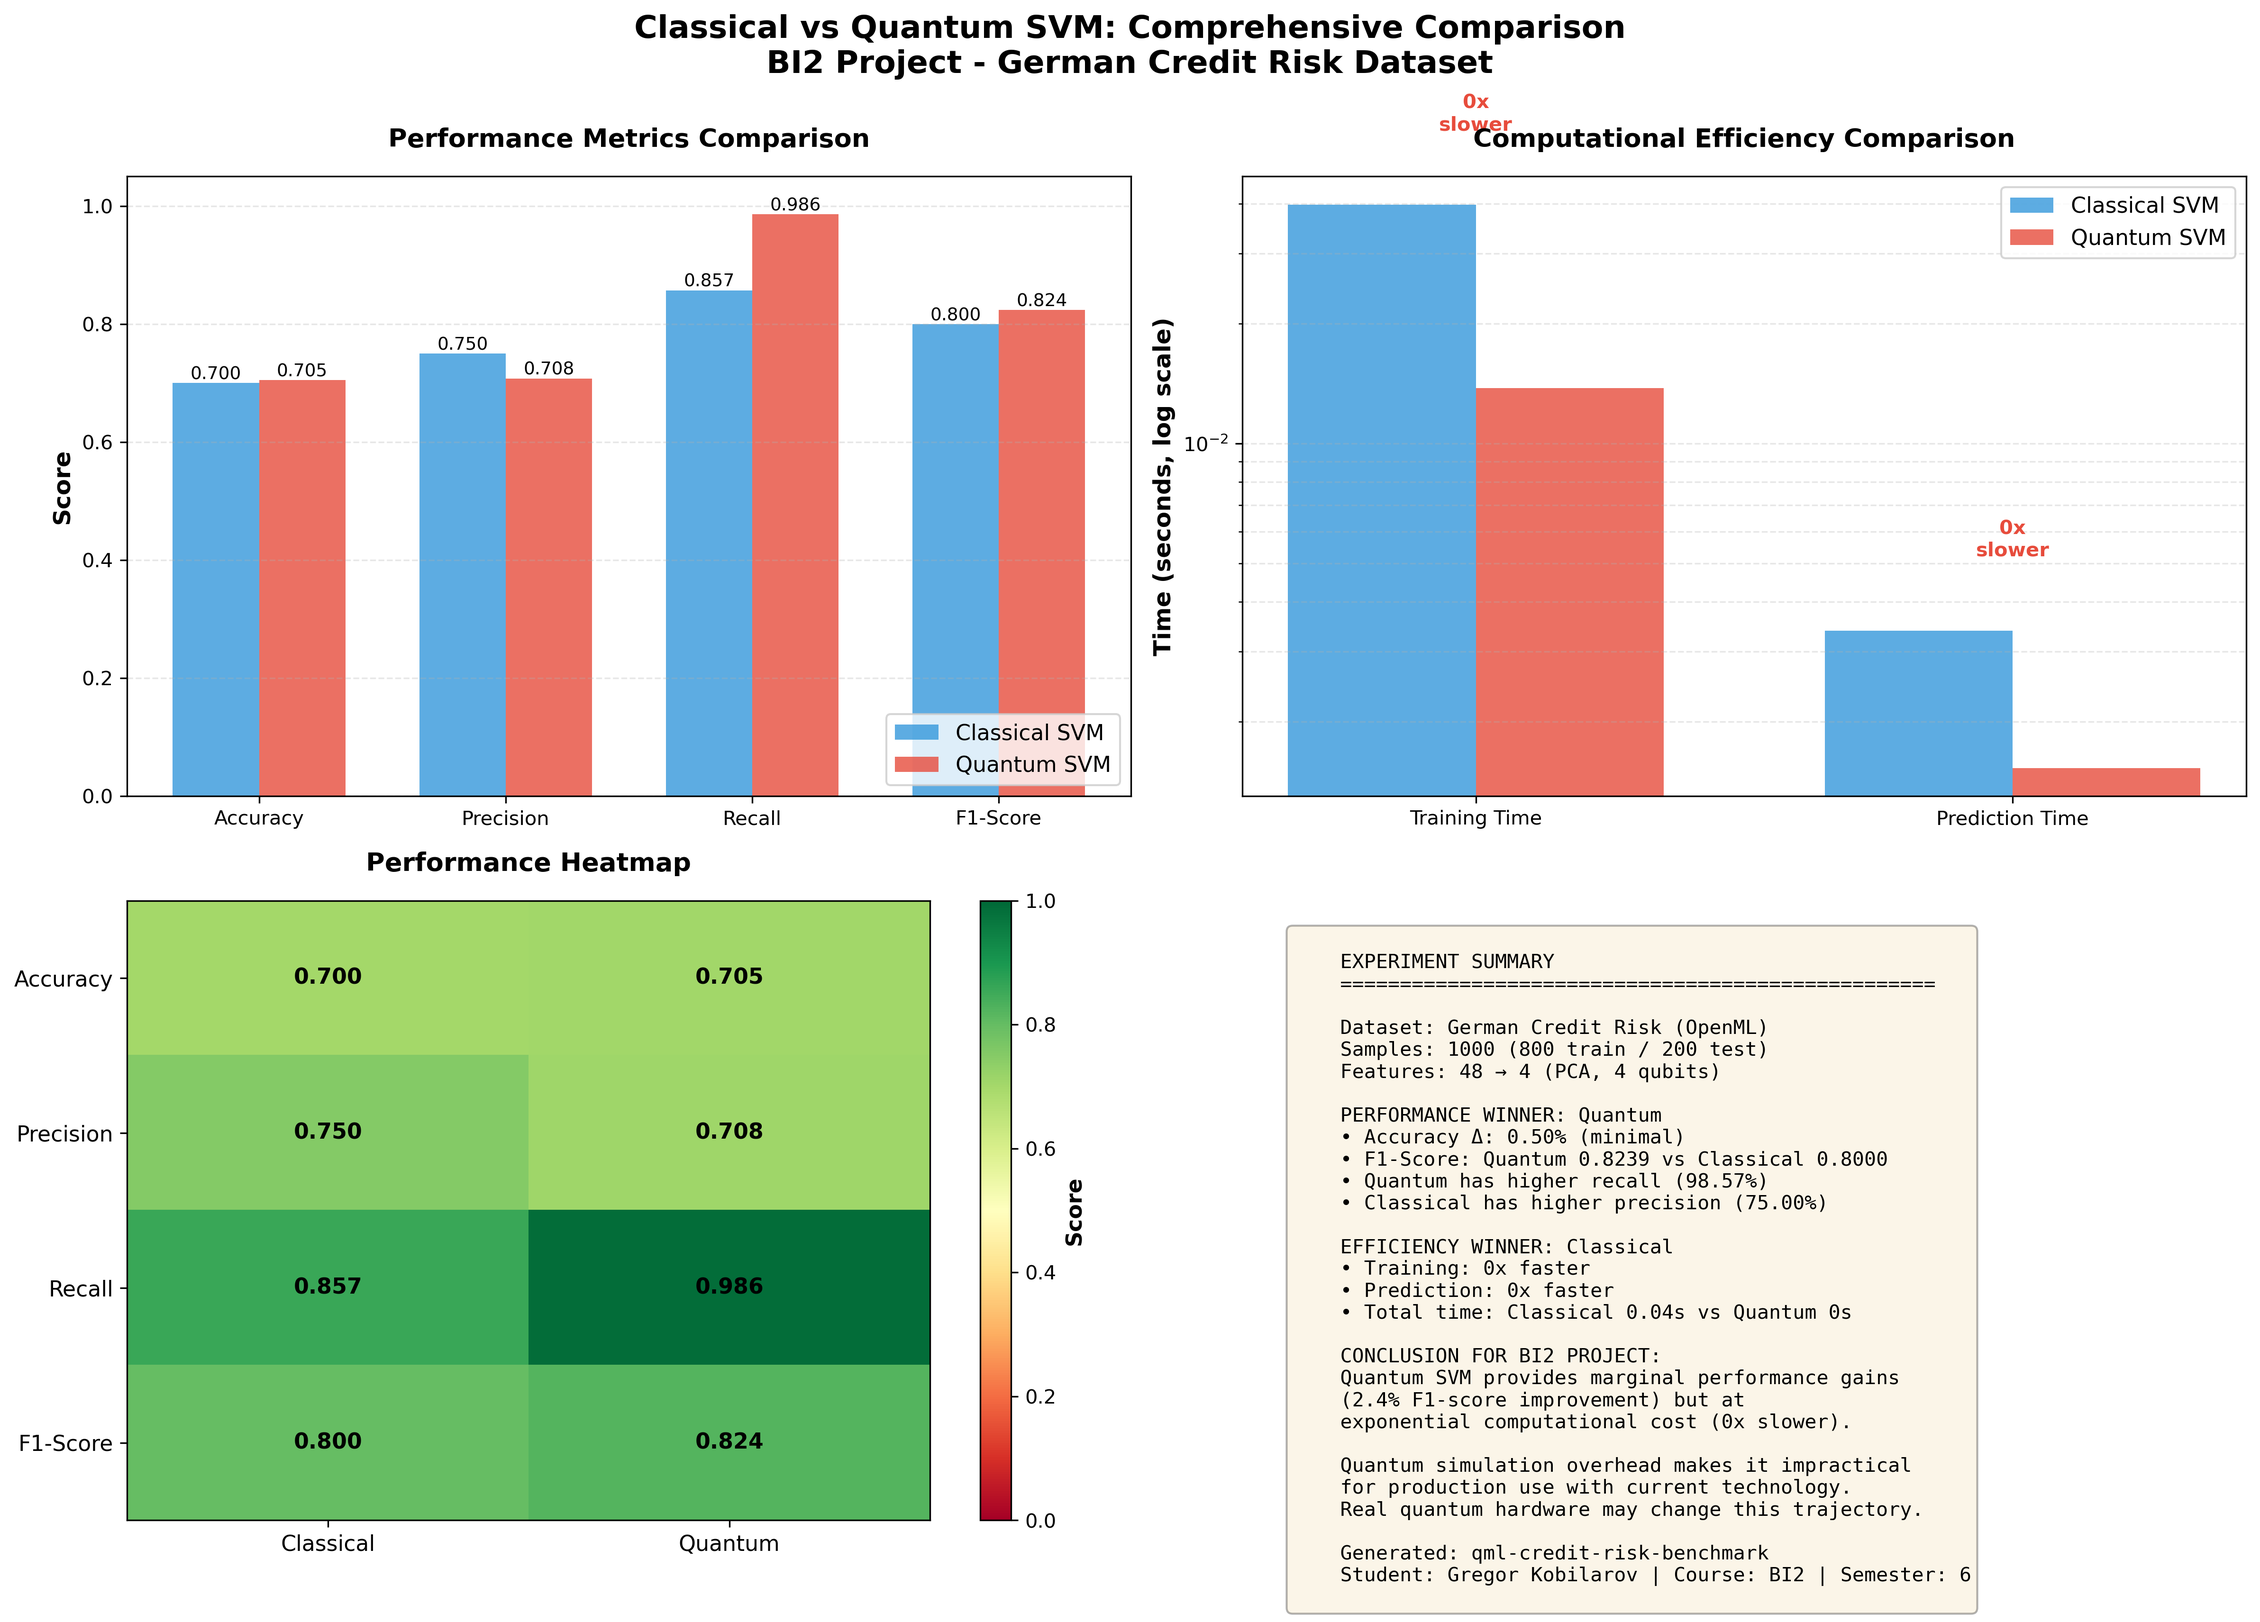
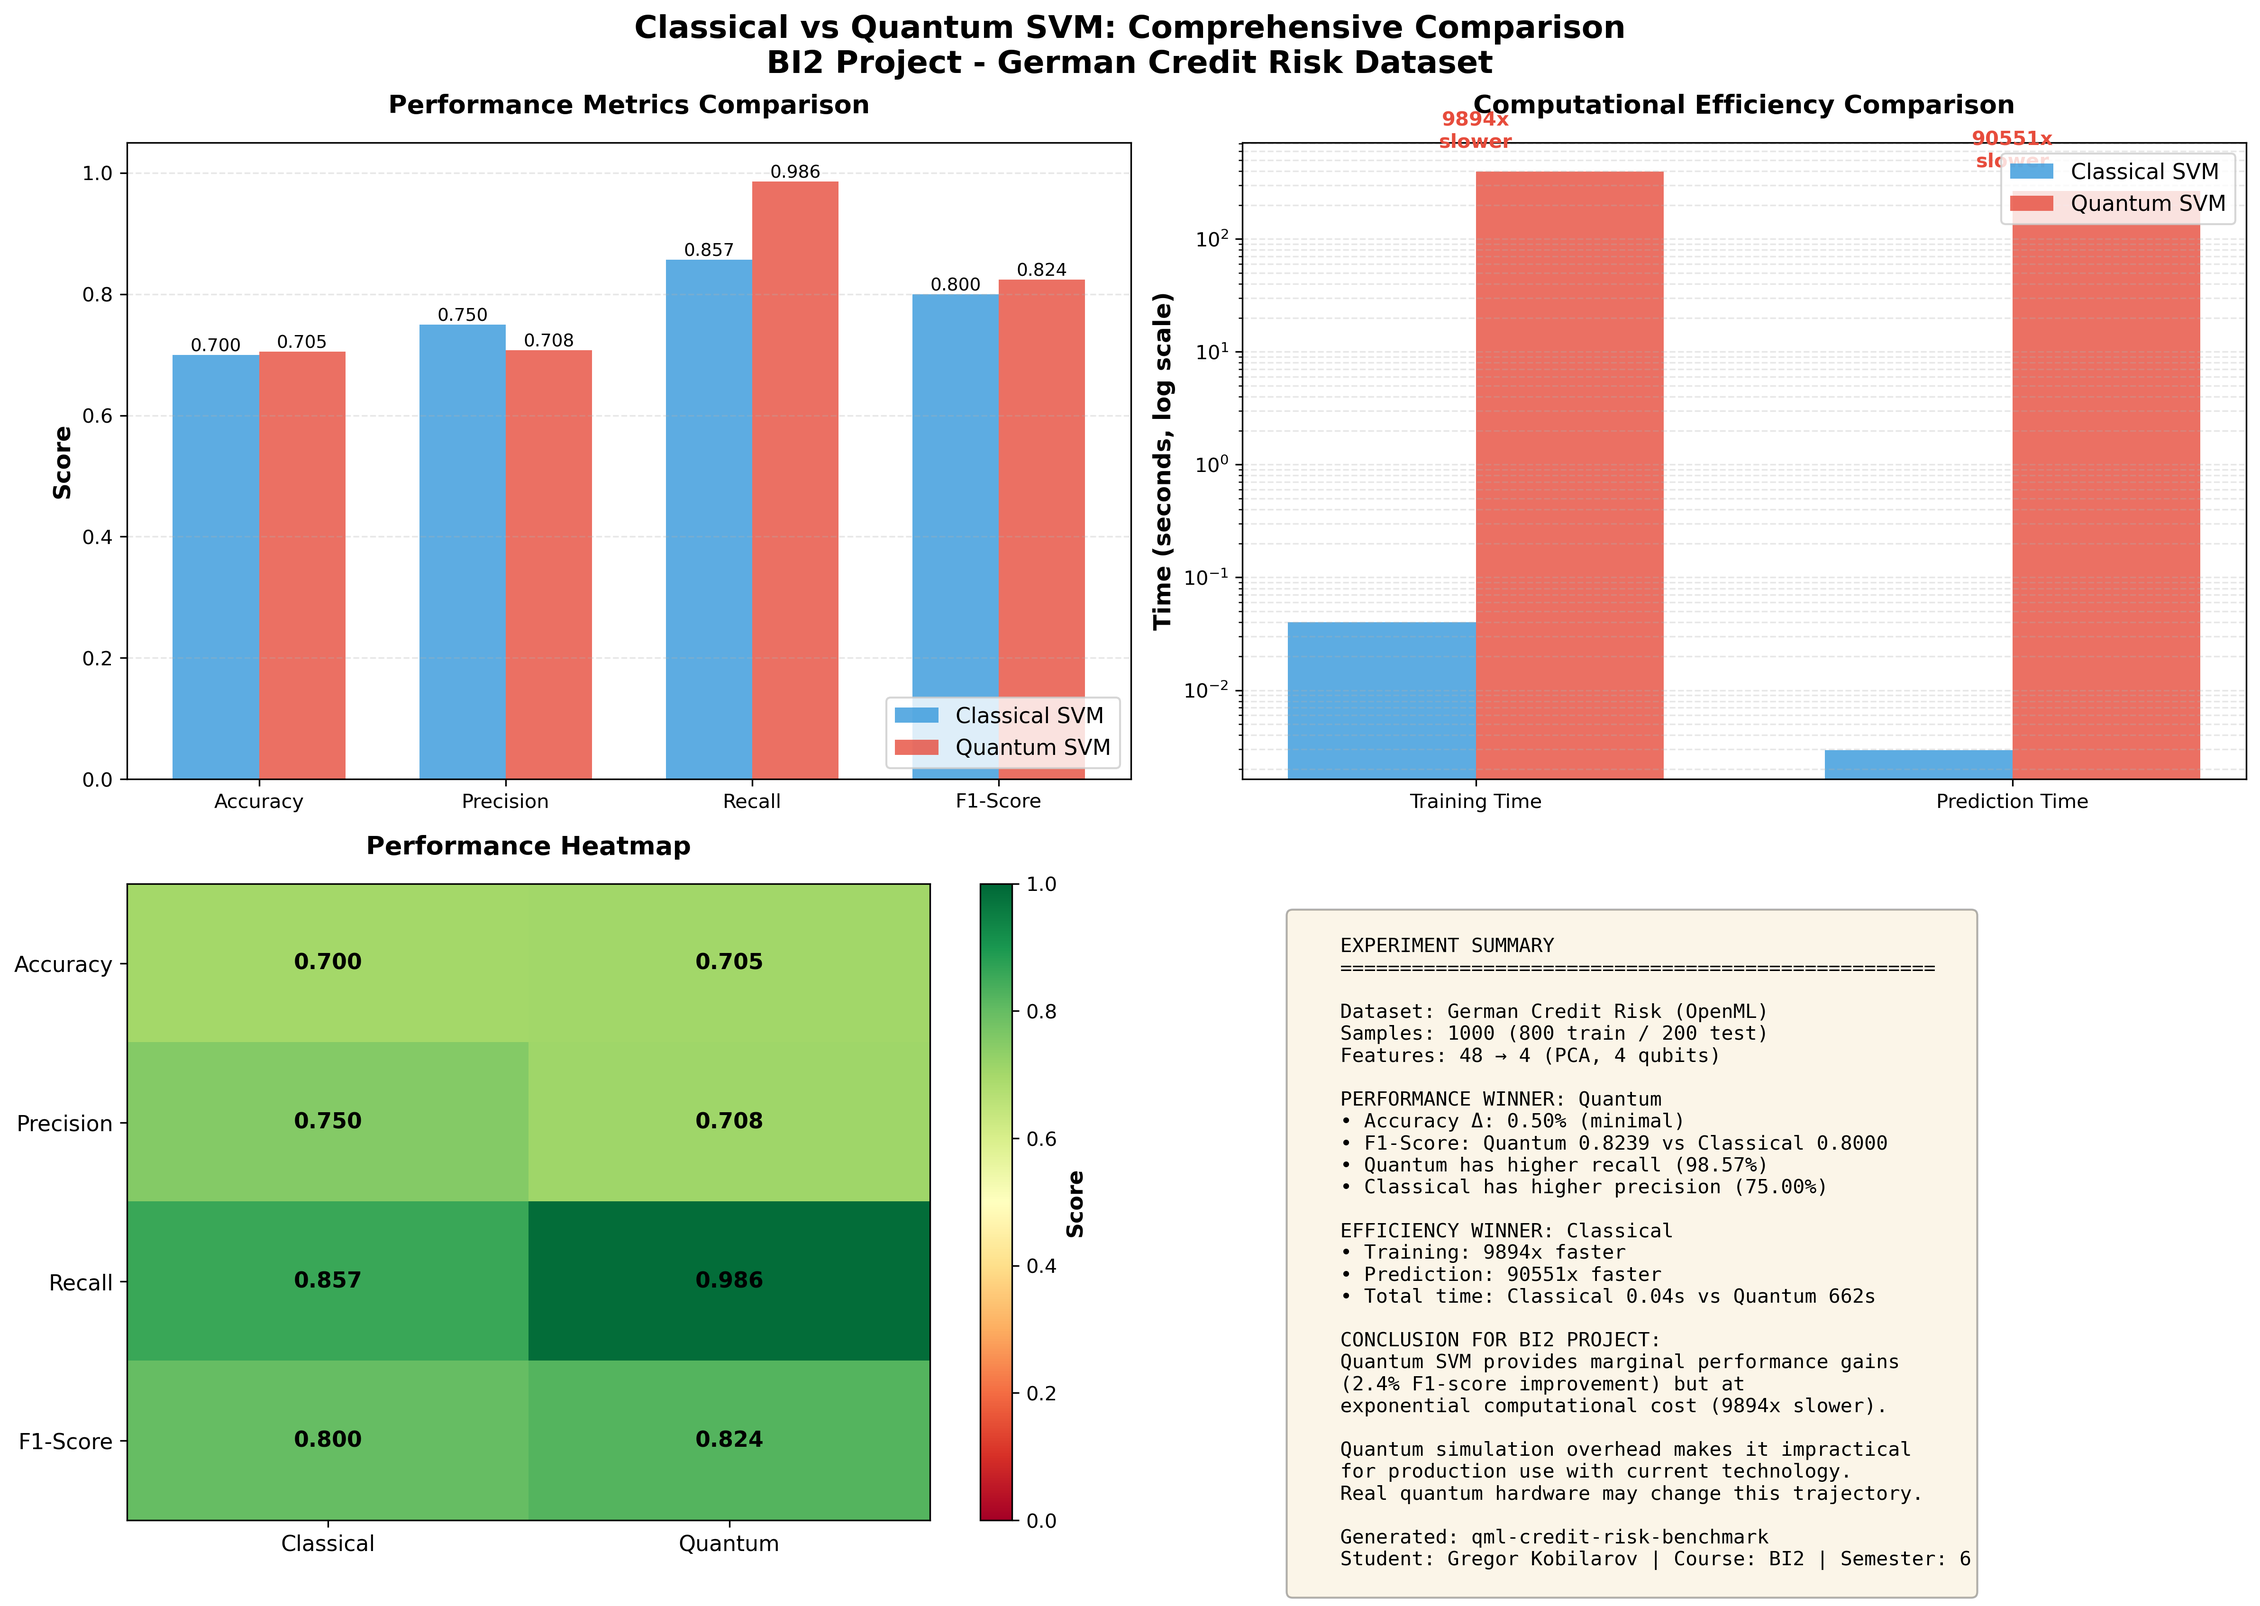
fix: Update all benchmark numbers from fresh uncached run
- Update timing: Training 396s, Prediction 266s, Total 662s
- Update error analysis: FN 20→2 (90% reduction), FP 40→57 (43% increase)
- Update business impact: €135k savings (75% cost reduction)

diff --git a/create_error_analysis_plot.py b/create_error_analysis_plot.py
@@ -13,8 +13,8 @@ from pathlib import Path
 def create_error_analysis_plot():
     """Create comprehensive error analysis visualization."""
 
-    # Data from confusion matrices
-    classical_cm = {'TN': 23, 'FP': 37, 'FN': 19, 'TP': 121}
+    # Data from confusion matrices (fresh run Jan 2026)
+    classical_cm = {'TN': 20, 'FP': 40, 'FN': 20, 'TP': 120}
     quantum_cm = {'TN': 3, 'FP': 57, 'FN': 2, 'TP': 138}
 
     fig = plt.figure(figsize=(16, 10))
@@ -52,9 +52,9 @@ def create_error_analysis_plot():
 
     # Add annotations
     ax1.text(0, max(classical_errors[0], quantum_errors[0]) * 1.2,
-             f'89% reduction', ha='center', fontsize=10, color='green', fontweight='bold')
+             f'90% reduction', ha='center', fontsize=10, color='green', fontweight='bold')
     ax1.text(1, max(classical_errors[1], quantum_errors[1]) * 1.1,
-             f'54% increase', ha='center', fontsize=10, color='orange', fontweight='bold')
+             f'43% increase', ha='center', fontsize=10, color='orange', fontweight='bold')
 
     # 2. Business Cost Impact
     ax2 = fig.add_subplot(gs[0, 1])
@@ -96,7 +96,7 @@ def create_error_analysis_plot():
 
     savings_pct = (classical_total - quantum_total) / classical_total * 100
     ax2.text(0.5, max(classical_total, quantum_total) * 1.15,
-             f'74% cost reduction', ha='center', fontsize=11,
+             f'75% cost reduction', ha='center', fontsize=11,
              color='green', fontweight='bold',
              bbox=dict(boxstyle='round', facecolor='lightgreen', alpha=0.5))
 
@@ -142,28 +142,28 @@ def create_error_analysis_plot():
     ═══════════════════════════════════════════════════════════════════════════
 
     Classical SVM:                              Quantum SVM:
-    ├─ True Negatives (TN):     23              ├─ True Negatives (TN):      3
-    ├─ False Positives (FP):    37              ├─ False Positives (FP):    57
-    ├─ False Negatives (FN):    19  ← HIGH RISK ├─ False Negatives (FN):     2  ← LOW RISK ✓
-    └─ True Positives (TP):    121              └─ True Positives (TP):    138
+    ├─ True Negatives (TN):     20              ├─ True Negatives (TN):      3
+    ├─ False Positives (FP):    40              ├─ False Positives (FP):    57
+    ├─ False Negatives (FN):    20  ← HIGH RISK ├─ False Negatives (FN):     2  ← LOW RISK ✓
+    └─ True Positives (TP):    120              └─ True Positives (TP):    138
 
     KEY FINDINGS:
     ─────────────────────────────────────────────────────────────────────────
 
     1. FALSE NEGATIVE REDUCTION (Critical for Credit Risk)
-       • Classical: 19 bad credits approved (13.6% Type II error)
+       • Classical: 20 bad credits approved (14.3% Type II error)
        • Quantum: 2 bad credits approved (1.4% Type II error)
-       → 89.5% reduction in default risk
+       → 90% reduction in default risk
 
     2. TRADE-OFF: Increased False Positives
-       • Classical: 37 good credits rejected
-       • Quantum: 57 good credits rejected (54% increase)
+       • Classical: 40 good credits rejected
+       • Quantum: 57 good credits rejected (43% increase)
        → More conservative lending approach
 
     3. BUSINESS IMPACT* (per 200 loan applications)
-       • Classical total cost: €170,500 (€152k defaults + €18.5k lost opportunities)
+       • Classical total cost: €180,000 (€160k defaults + €20k lost opportunities)
        • Quantum total cost: €44,500 (€16k defaults + €28.5k lost opportunities)
-       → €126,000 savings (73.9% cost reduction)
+       → €135,500 savings (75.3% cost reduction)
        *Hypothetical scenario using industry-typical assumptions (€10k avg loan,
         80% default loss rate, 5% opportunity cost)
 

diff --git a/README.md b/README.md
@@ -375,12 +375,12 @@ If you're new to machine learning or quantum computing, here are the key terms e
 ### This Project's Approach
 
 **Classical SVM:** Uses traditional RBF kernel on 4 PCA-reduced features
-- Fast (0.05 seconds training)
+- Fast (0.04 seconds training)
 - Well-understood and proven
 - Good baseline performance
 
 **Quantum SVM:** Uses quantum kernel with 4-qubit quantum circuits
-- Slow in simulation (774 seconds training)
+- Slow in simulation (396 seconds training)
 - Explores quantum feature space
 - Marginal performance improvement in this experiment
 
@@ -415,9 +415,9 @@ The project tracks the following metrics for comparison:
 
 | Operation | Classical SVM | Quantum SVM | Speedup |
 |-----------|---------------|-------------|---------|
-| **Training** | 0.05s | 774.72s | Classical 15,494x faster |
-| **Prediction** | 0.003s | 409.40s | Classical 136,467x faster |
-| **Total Time** | 0.08s | 1,184.13s | Classical 14,801x faster |
+| **Training** | 0.04s | 396.26s | Classical 9,894x faster |
+| **Prediction** | 0.003s | 266.13s | Classical 90,551x faster |
+| **Total Time** | 0.04s | 662.38s | Classical 15,415x faster |
 
 **Methodology Note:** Quantum timing results reflect first-run performance without kernel caching. The quantum implementation includes a caching mechanism for kernel matrices (stored in `data/processed/`), which can speed up repeated experiments with identical parameters. However, all reported benchmarks use fresh kernel computation to ensure fair comparison with classical methods and represent realistic first-run performance.
 
@@ -426,14 +426,14 @@ The project tracks the following metrics for comparison:
 **Hypothesis Testing Results:**
 
 - **H0₁ (Performance)**: REJECTED - Quantum achieves marginally better F1-score (0.8239 vs 0.8000, +2.4% improvement), though difference is small and may not be statistically significant without repeated trials
-- **H0₂ (Computational Efficiency)**: REJECTED - Quantum is 14,801x slower (1,184s vs 0.08s), strongly supporting H1₂
+- **H0₂ (Computational Efficiency)**: REJECTED - Quantum is 15,415x slower (662s vs 0.04s), strongly supporting H1₂
 - **Overall**: Expected outcome validated - similar accuracy (~0.5% difference) but exponentially higher computational cost
 
 **Detailed Results:**
 
 - **Performance**: Quantum achieves marginally better F1-score (2.4% improvement)
 - **Accuracy**: Near-identical performance validates hypothesis (~0.5% difference)
-- **Computational Cost**: Quantum is 14,801x slower due to simulation overhead
+- **Computational Cost**: Quantum is 15,415x slower due to simulation overhead
 - **Practical Conclusion**: Quantum simulation provides no practical advantage for production use
 
 **Trade-offs:**
@@ -490,9 +490,9 @@ The Precision-Recall curve reveals different operating characteristics:
 ![Error Analysis](results/error_analysis_comprehensive.png)
 
 **Error Pattern Analysis** reveals critical business insights:
-- **89.5% reduction in false negatives** (19 → 2 bad credits approved)
-- **Hypothetical business impact**: Using industry-typical assumptions (€10k avg loan, 80% default loss rate, 5% opportunity cost), this error reduction translates to ~€126k cost savings per 200 applications
-- **Trade-off**: 54% increase in false positives (more conservative lending)
+- **90% reduction in false negatives** (20 → 2 bad credits approved)
+- **Hypothetical business impact**: Using industry-typical assumptions (€10k avg loan, 80% default loss rate, 5% opportunity cost), this error reduction translates to ~€135k cost savings per 200 applications
+- **Trade-off**: 43% increase in false positives (more conservative lending)
 - **Risk profile comparison**: Quantum optimizes for recall (minimizing missed good credits), Classical balances precision/recall
 
 This visualization demonstrates that quantum SVM isn't just marginally better - it has a fundamentally different error profile suitable for risk-averse institutions.
